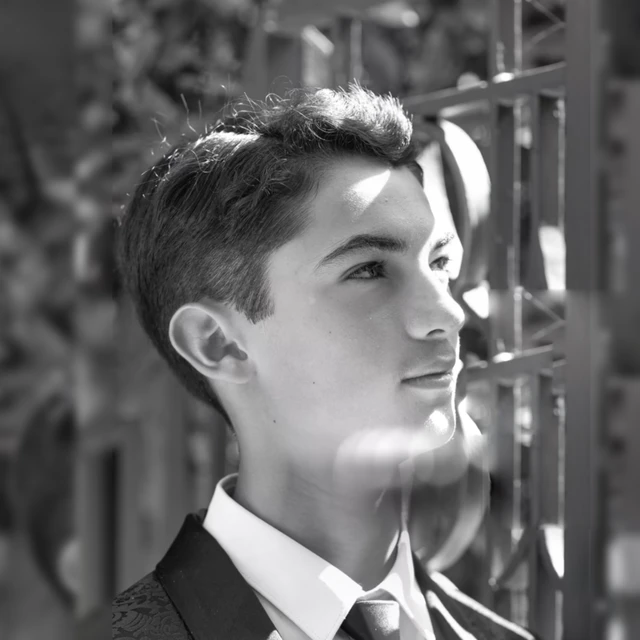
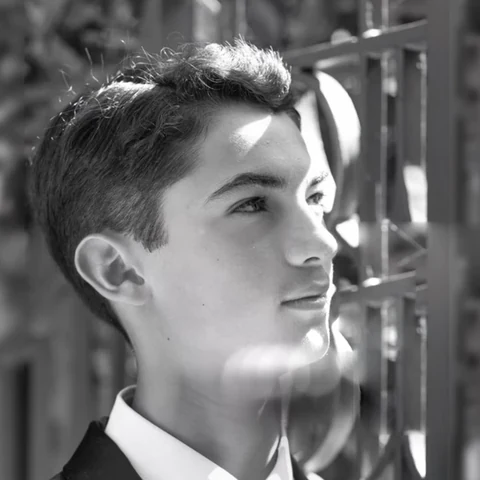
Profile portrait cropped around the face

diff --git a/benjamin-wald/index.html b/benjamin-wald/index.html
@@ -74,7 +74,7 @@
 </header>
 <div class="wrap">
 <main>
-<img class="profile-photo" src="../images/benjamin-wald.webp" alt="Portrait of Benjamin Wald" width="640" height="640" fetchpriority="high">
+<img class="profile-photo" src="../images/benjamin-wald.webp?v=2" alt="Portrait of Benjamin Wald" width="480" height="480" fetchpriority="high">
 <h1>Benjamin Wald</h1>
 <p class="meta">Founder &amp; CEO, OfficeSwap · Co-Founder, MIR Rehab</p>
 
